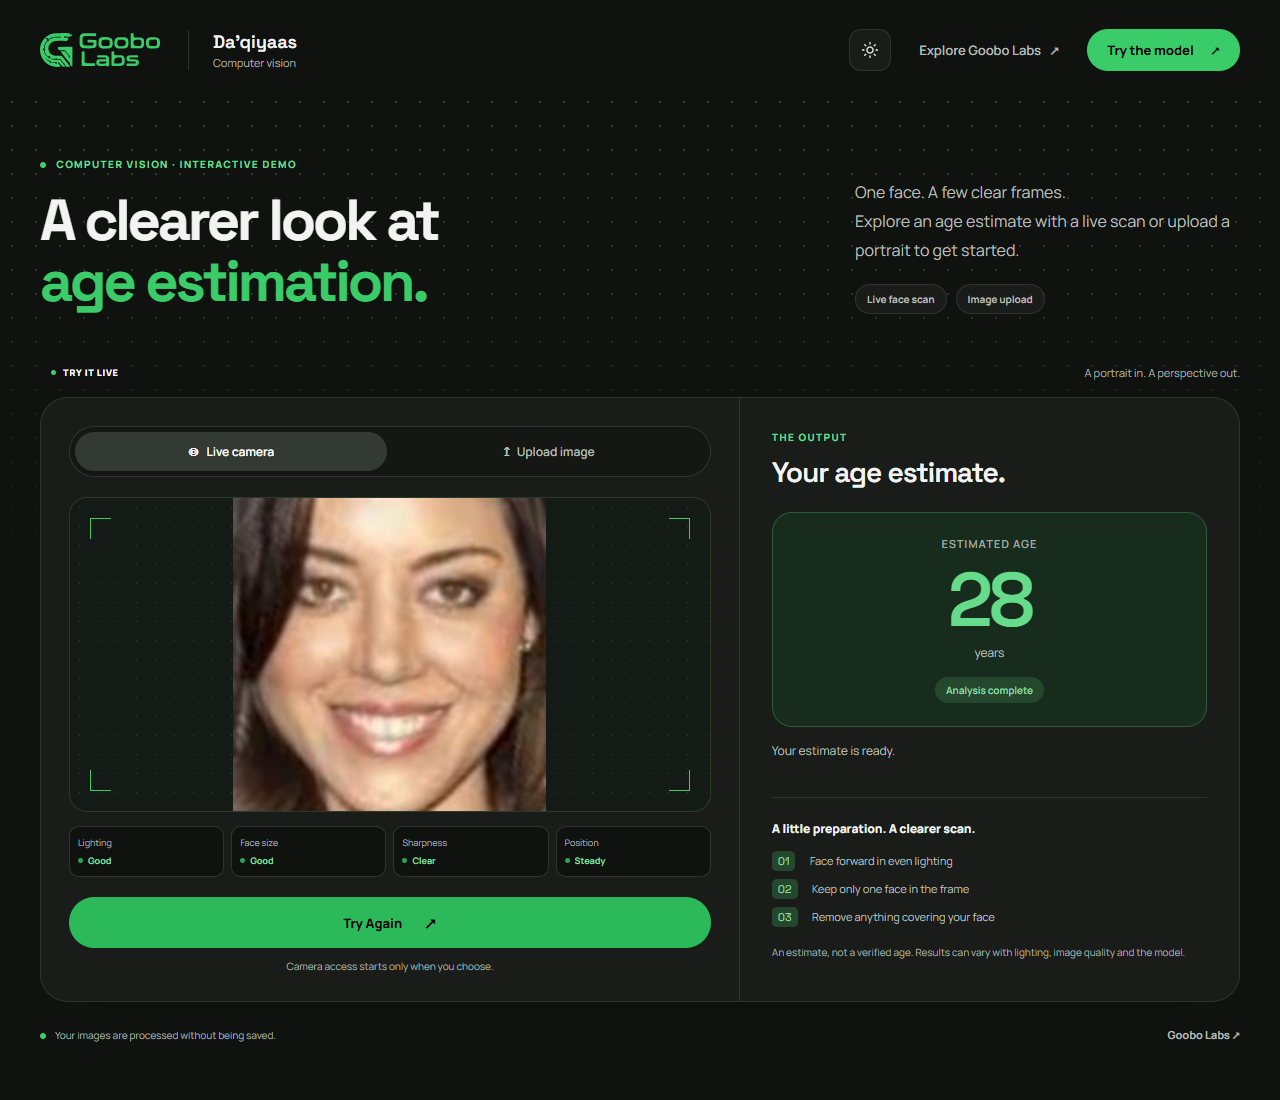
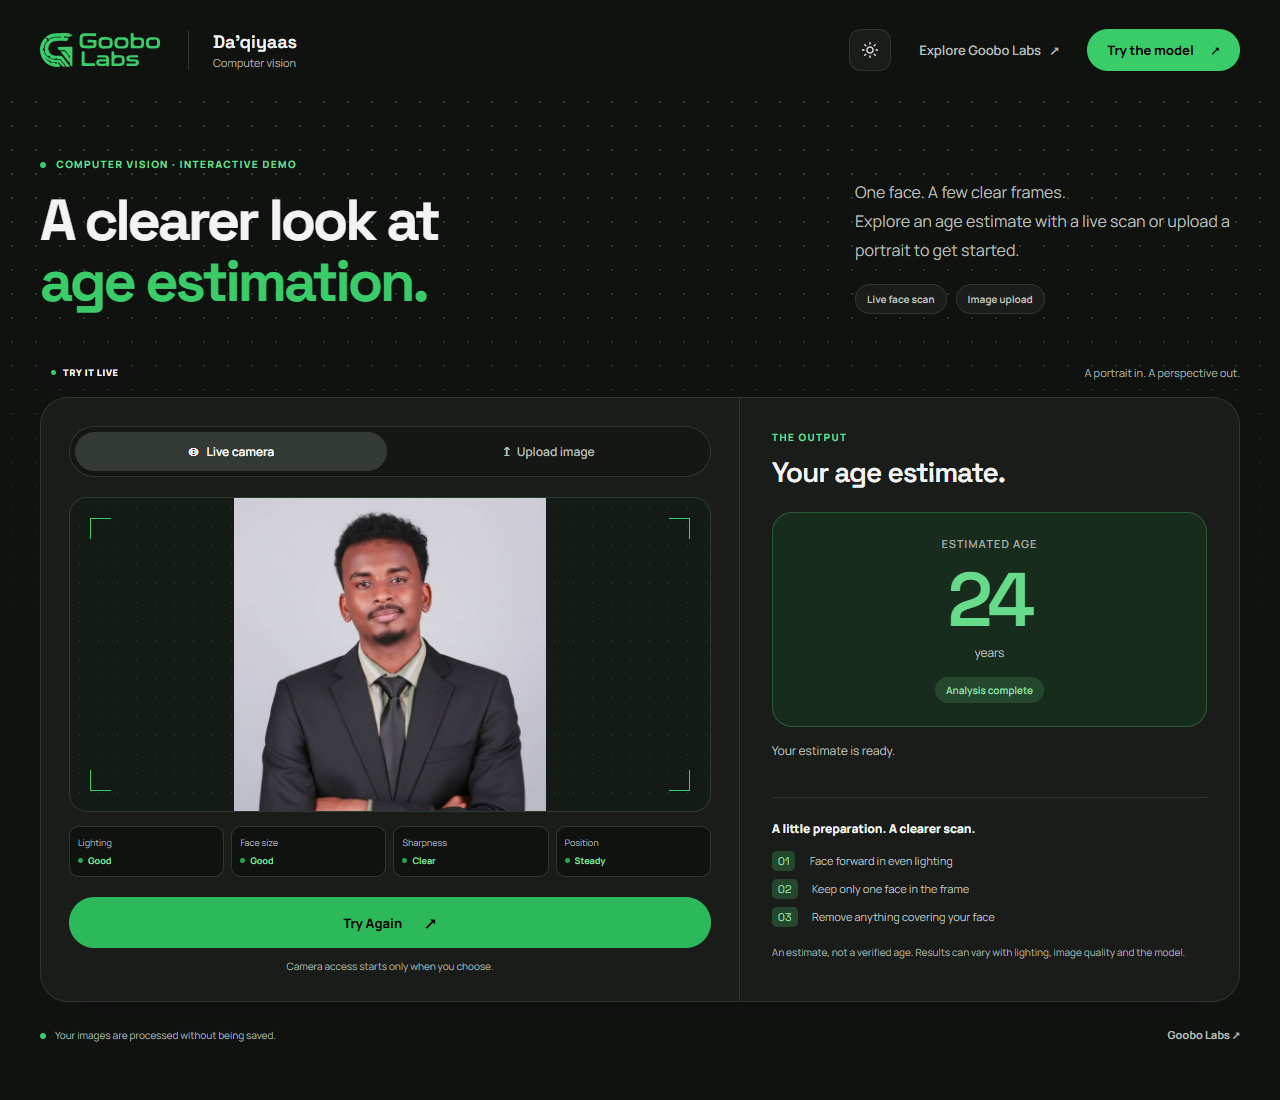
Use owner portrait in demo recording

Changed region(s): [[0.1562, 0.4327, 0.4375, 0.7418], [0.75, 0.5255, 0.8125, 0.5873]]

diff --git a/README.md b/README.md
@@ -24,7 +24,7 @@ Da’qiyaas finds a face in an image and estimates its age. You can upload a por
 
 ![Da’qiyaas: image upload, dark mode, face scanning and an age estimate](docs/assets/demo.gif)
 
-*Recorded from the running app with the real Flask API and trained model. One adult UTKFace test portrait is uploaded, then supplied through a virtual camera. API results are not mocked. This demonstrates the workflow; it does not measure webcam accuracy. The sample was selected for passing capture checks, not for matching its age label.*
+*Recorded from the running app with the real Flask API and trained model. The project owner's supplied portrait is uploaded, then supplied through a virtual camera. API results are not mocked. This demonstrates the workflow; it does not measure webcam accuracy. The displayed ages are model estimates; the portrait has no verified age label in this demo.*
 
 [View the light interface](docs/assets/overview.png) · [View the dark result](docs/assets/dark-result.png) · [Recording details](docs/assets/demo-recording.json)
 
@@ -280,11 +280,11 @@ Keep both local services running, then run:
 
 ```powershell
 # From the project root:
-node frontend/scripts/record-demo.cjs
+node frontend/scripts/record-demo.cjs --image "C:\path\to\portrait.jpg"
 .\.venv\Scripts\python.exe scripts/encode_demo.py
 ```
 
-The recording script uses headless Edge, checks a valid adult test portrait, exercises upload and a virtual-camera scan, and asserts that the camera stops after success. PNG frames go to `.run/demo-frames/`; Pillow encodes them into `docs/assets/demo.gif` using their recorded timing. No extra video encoder is required.
+The recording script uses headless Edge, uses the supplied portrait, exercises upload and a virtual-camera scan, and asserts that the camera stops after success. PNG frames go to `.run/demo-frames/`; Pillow encodes them into `docs/assets/demo.gif` using their recorded timing. No extra video encoder is required. Omitting --image falls back to a valid adult UTKFace test portrait.
 
 ## Project map
 
